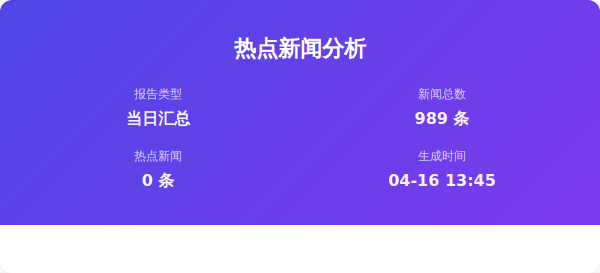
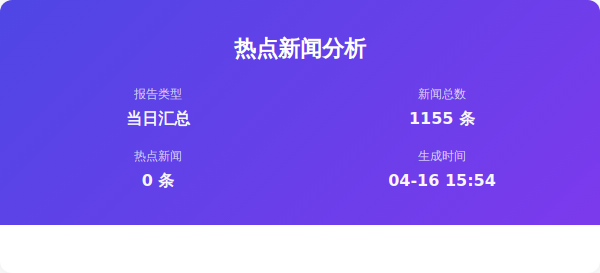
Auto update by GitHub Actions at Thu Apr 16 15:54:45 CST 2026

Changed region(s): [[0.66, 0.4103, 0.81, 0.4689], [0.75, 0.6447, 0.84, 0.7033]]

diff --git a/output/2026年04月16日/html/当日汇总.html b/output/2026年04月16日/html/当日汇总.html
@@ -357,7 +357,7 @@
                     </div>
                     <div class="info-item">
                         <span class="info-label">新闻总数</span>
-                        <span class="info-value">989 条</span>
+                        <span class="info-value">1155 条</span>
                     </div>
                     <div class="info-item">
                         <span class="info-label">热点新闻</span>
@@ -365,7 +365,7 @@
                     </div>
                     <div class="info-item">
                         <span class="info-label">生成时间</span>
-                        <span class="info-value">04-16 13:45</span>
+                        <span class="info-value">04-16 15:54</span>
                     </div>
                 </div>
             </div>